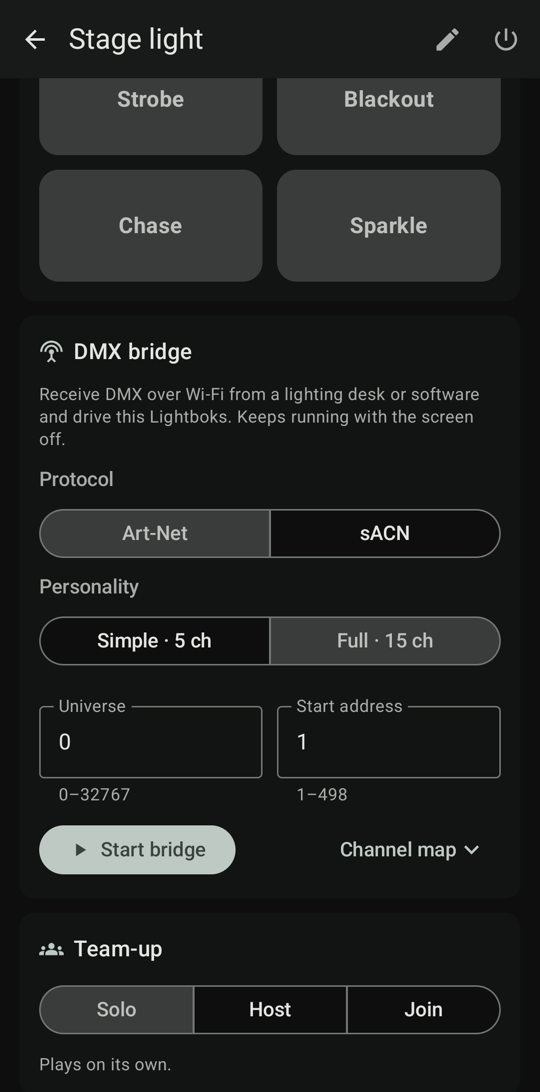
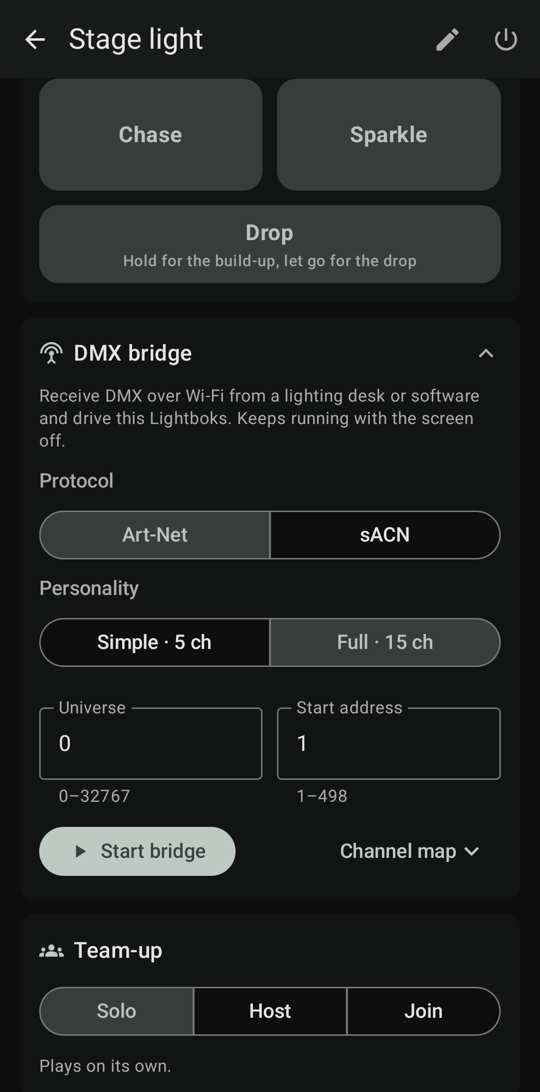
README: features, known issues and the Lightboks screenshots cover the palette editor, scenes, sleep fade, the Drop pad and the Cycle tile

diff --git a/tools/screenshots.py b/tools/screenshots.py
@@ -155,24 +155,43 @@ def take(shots: list[str], work: Path):
             back()
         back()
 
-    light_shots = [s for s in ("lightboks", "palettes", "dmx-bridge") if s in shots]
+    light_shots = [s for s in ("lightboks", "palettes", "palette-editor", "dmx-bridge") if s in shots]
     if light_shots:
         open_device("Lightboks")
         if "lightboks" in shots:
             shot("lightboks", work)
         if "palettes" in shots:
-            tap("Palettes")
+            # The palette's row opens them; its status line is the one fixed text in it.
+            status = next(n for n in nodes() if n.text in ("Preset", "Your palette", "Not saved", "Chosen by the light"))
+            x, y = status.center
+            adb("shell", "input", "tap", str(x), str(y))
             wait_for("Colour palettes")
             shot("palettes", work)
             back()
+        if "palette-editor" in shots:
+            # The colour strip's swatches have no text; Main 1's label sits just below its swatch.
+            label = wait_for("Main 1")
+            x, _ = label.center
+            adb("shell", "input", "tap", str(x), str(label.top - 60))
+            wait_for("Preview on the light")
+            shot("palette-editor", work)
+            back()  # discards the draft and puts the light's palette back
         if "dmx-bridge" in shots:
+            # The card starts folded, near the end of the screen, too low to scroll into place until it unfolds.
+            for _ in range(6):
+                if find("DMX bridge"):
+                    break
+                adb("shell", "input", "swipe", "20", "1800", "20", "1000", "500")
+                time.sleep(1)
+            tap("DMX bridge")
+            wait_for("Protocol")
             scroll_until("DMX bridge", 815)
             shot("dmx-bridge", work)
         back()
 
 
 def main():
-    shots = ["devices", "speaker", "custom-eq", "room-tuning", "lightboks", "palettes", "dmx-bridge"]
+    shots = ["devices", "speaker", "custom-eq", "room-tuning", "lightboks", "palettes", "palette-editor", "dmx-bridge"]
     unknown = set(sys.argv[1:]) - set(shots)
     if unknown:
         sys.exit(f"unknown shots: {', '.join(sorted(unknown))}; choose from {', '.join(shots)}")

diff --git a/README.md b/README.md
@@ -33,10 +33,11 @@ Bluetooth LE only, with no account and no cloud.</p>
 > **Not affiliated with SOUNDBOKS.** Boks Remote is an unofficial community project, not made, endorsed or supported by SOUNDBOKS ApS. "SOUNDBOKS" and "Lightboks" are trademarks of their owner and are used here only to say which devices the app works with. Use it at your own risk.
 
 <p align="center">
-  <img src="docs/screenshots/custom-eq.png" width="200" alt="Speaker screen with volume and a custom six-band EQ curve">
-  <img src="docs/screenshots/room-tuning.png" width="200" alt="Room tuning wizard">
-  <img src="docs/screenshots/lightboks.png" width="200" alt="Lightboks screen with brightness, light mode and colours">
-  <img src="docs/screenshots/dmx-bridge.png" width="200" alt="Effects pad and DMX bridge">
+  <img src="docs/screenshots/custom-eq.png" width="160" alt="Speaker screen with volume and a custom six-band EQ curve">
+  <img src="docs/screenshots/room-tuning.png" width="160" alt="Room tuning wizard">
+  <img src="docs/screenshots/lightboks.png" width="160" alt="Lightboks screen with brightness, light mode, the scene in use and its colours">
+  <img src="docs/screenshots/palette-editor.png" width="160" alt="Palette editor with a live preview on the light">
+  <img src="docs/screenshots/dmx-bridge.png" width="160" alt="Effects pad and DMX bridge">
 </p>
 
 ## Install
@@ -58,6 +59,9 @@ Every release is signed with the same key, so a newer APK installs over the old 
 | **Room tuning by microphone** | approx. | Mix; others approx. | – | **–** |
 | **DMX bridge (Art-Net / sACN)** | – | – | ✓ | **–** |
 | **Cycle: rotate through chosen palettes on a timer** | – | – | ✓ | **–** |
+| **Scenes: brightness, light mode, colours and Cycle in one tap** | – | – | ✓ | **–** |
+| **Sleep fade to dark, then off** | – | – | ✓ | **–** |
+| **Palettes from a photo or a colour harmony** | – | – | ✓ | **–** |
 | Volume and mute, battery, active inputs | ✓ | ✓ | battery | ✓ |
 | Sound profiles (per-model names, e.g. Bass+ / Outdoor / Indoor) | ✓ | ✓ (RPC) | – | ✓ |
 | Custom 6-band EQ, saved presets | ✓ | ✓ (RPC) | – | ✓ |
@@ -70,9 +74,16 @@ Every release is signed with the same key, so a newer APK installs over the old 
 
 <sub>**Bold rows** (at the top) are only in Boks Remote; the last column compares with the official SOUNDBOKS app. **RPC:** on these models the feature goes through the protobuf command channel of newer firmware. **approx.:** this model's EQ bands haven't been [measured](#help-measure-your-speaker) yet, so room tuning uses the Mix's. **firmware ≥ 3:** older Gen 3 firmware has no command channel for the pincode, so it has to be entered in the official app.</sub>
 
-- **Custom EQ:** drag six bands (±10 dB), hear the change live, and save curves on the phone.
-- **Room tuning:** measure at a few listening spots with the phone or a USB microphone and get a suggested EQ.
-- **Cycle:** pick palettes for the Lightboks, put them in order (or shuffle them) and change every 30 s to 30 min, also with the screen off. Picking a palette by hand pauses it.
+- **Custom EQ:** drag six bands (±10 dB), hear it live, and save curves on the phone.
+- **Room tuning:** measure a few listening spots with the phone or a USB microphone and get a suggested EQ.
+- **Cycle:** rotate the Lightboks through chosen palettes every 30 s to 30 min, in order or shuffled, with the screen off too. Pause, Skip, or tap a palette to jump to it.
+- **Palette editor:** sliders, colour codes and recent colours, with a live preview on the light.
+- **Colour harmonies:** build all four colours from one: Analogous, Complement, Split, Triadic, Square or Mono.
+- **Palette from a photo:** its most vivid colours become the palette.
+- **Scenes:** brightness, light mode, palette and Cycle back with one tap. The scene in use saves your changes by itself.
+- **Sleep fade:** dim to dark over 15, 30 or 60 minutes, then switch off.
+- **Effects pad:** hold an effect or slide up to lock it. **Drop** blacks out while held and strobes on release.
+- **Quick Settings tile** for Cycle, and a Stop notification while anything runs with the screen off.
 
 Firmware updates, registration and anti-theft lock need SOUNDBOKS's servers, so they stay in the official app. Saved EQs stay on the phone rather than syncing to a SOUNDBOKS account.
 
@@ -97,18 +108,22 @@ A local release build is signed with the debug key, so it can be sideloaded as-i
 
 ## Privacy
 
-Boks Remote has no account, analytics or cloud connection. Owner pincodes, palettes and EQs stay on the phone and are excluded from Android backups.
+Boks Remote has no account, analytics or cloud connection. Owner pincodes, palettes, scenes and EQs stay on the phone and are excluded from Android backups.
 
 | Permission | Used for |
 | --- | --- |
 | Nearby devices (Bluetooth scan and connect) | Finding and controlling speakers. The scan is declared as not used for location, so no location permission is asked for. |
 | Microphone | Room tuning only, while a measurement runs. |
-| Notifications | The DMX bridge's status notification with its Stop action. |
-| Network, Wi-Fi multicast, foreground service, wake lock | Receiving Art-Net/sACN for the DMX bridge and keeping it running with the screen off. |
+| Notifications | The status notification with its Stop action while the DMX bridge, Cycle or Sleep fade runs. |
+| Network, Wi-Fi multicast, foreground service, wake lock | Receiving Art-Net/sACN for the DMX bridge, and keeping it, Cycle and Sleep fade running with the screen off. |
 
 ## Status
 
 Tested on hardware with a SOUNDBOKS Mix (firmware 1.1.1) and a Lightboks (firmware 1.1.0). Not every model and firmware has been tried, so if something doesn't respond, run `adb logcat -s SpeakerController GattConnection` and open an issue with the log and your speaker model and firmware.
+
+## Known issues
+
+- **Lightboks keeps the previous palette:** now and then, a palette you pick doesn't show on the Lightboks, which stays on the one before even though the app shows the new one. Switching the light mode (Chill, Dance, Rave or Uplight) makes it show the palette you picked.
 
 ## License
 
